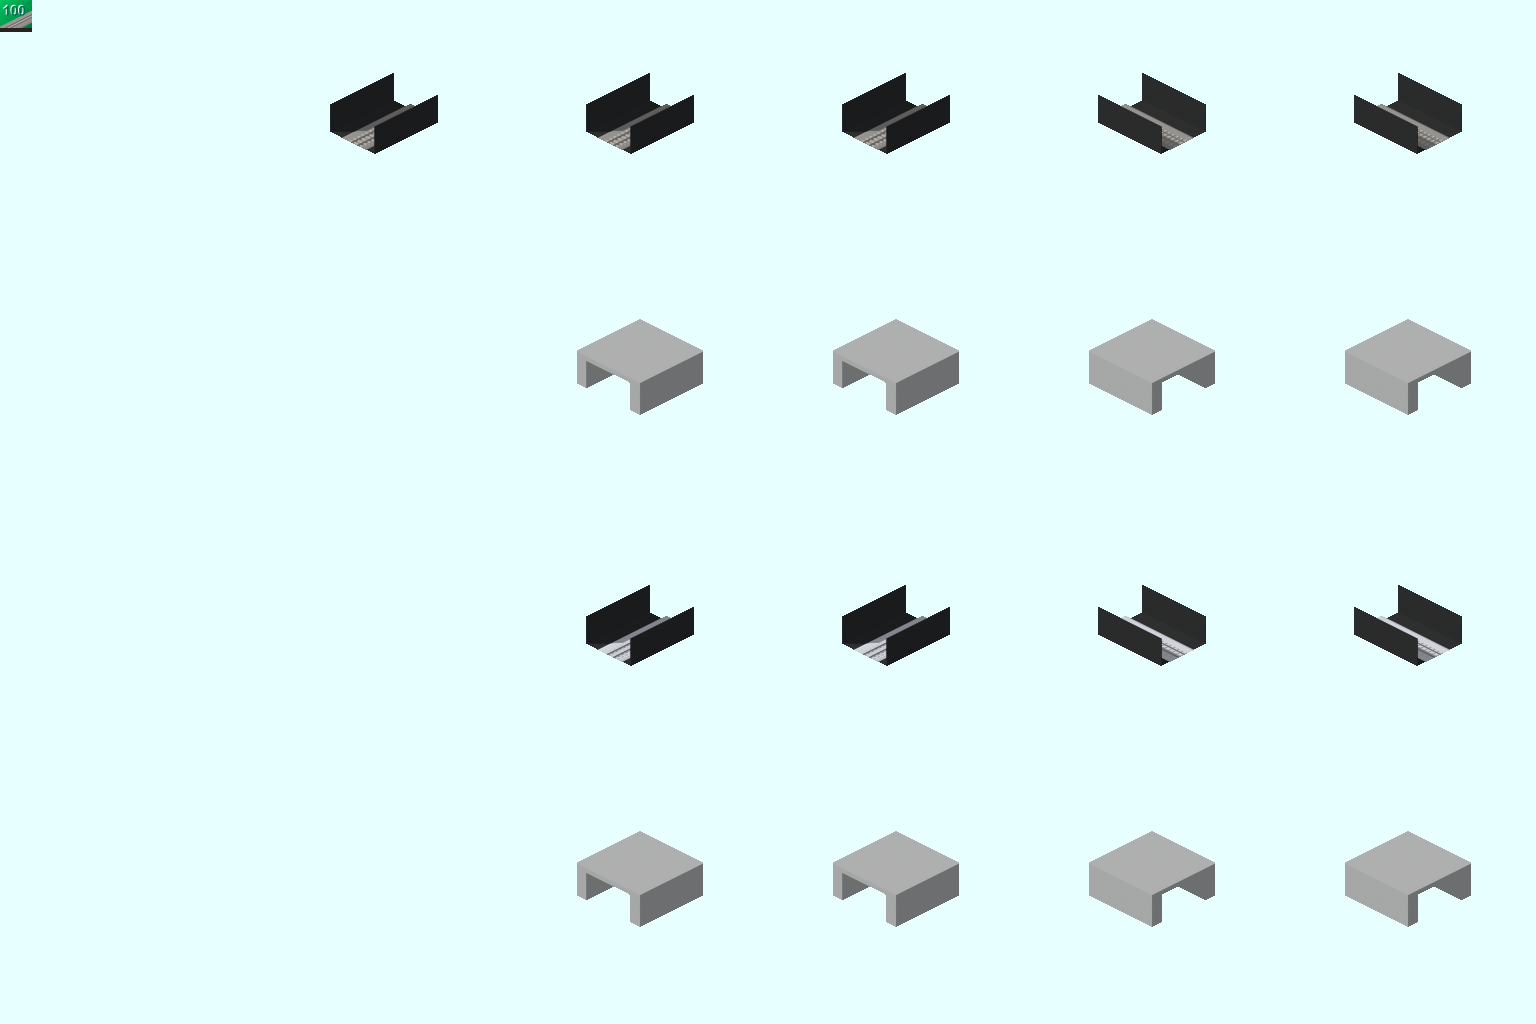
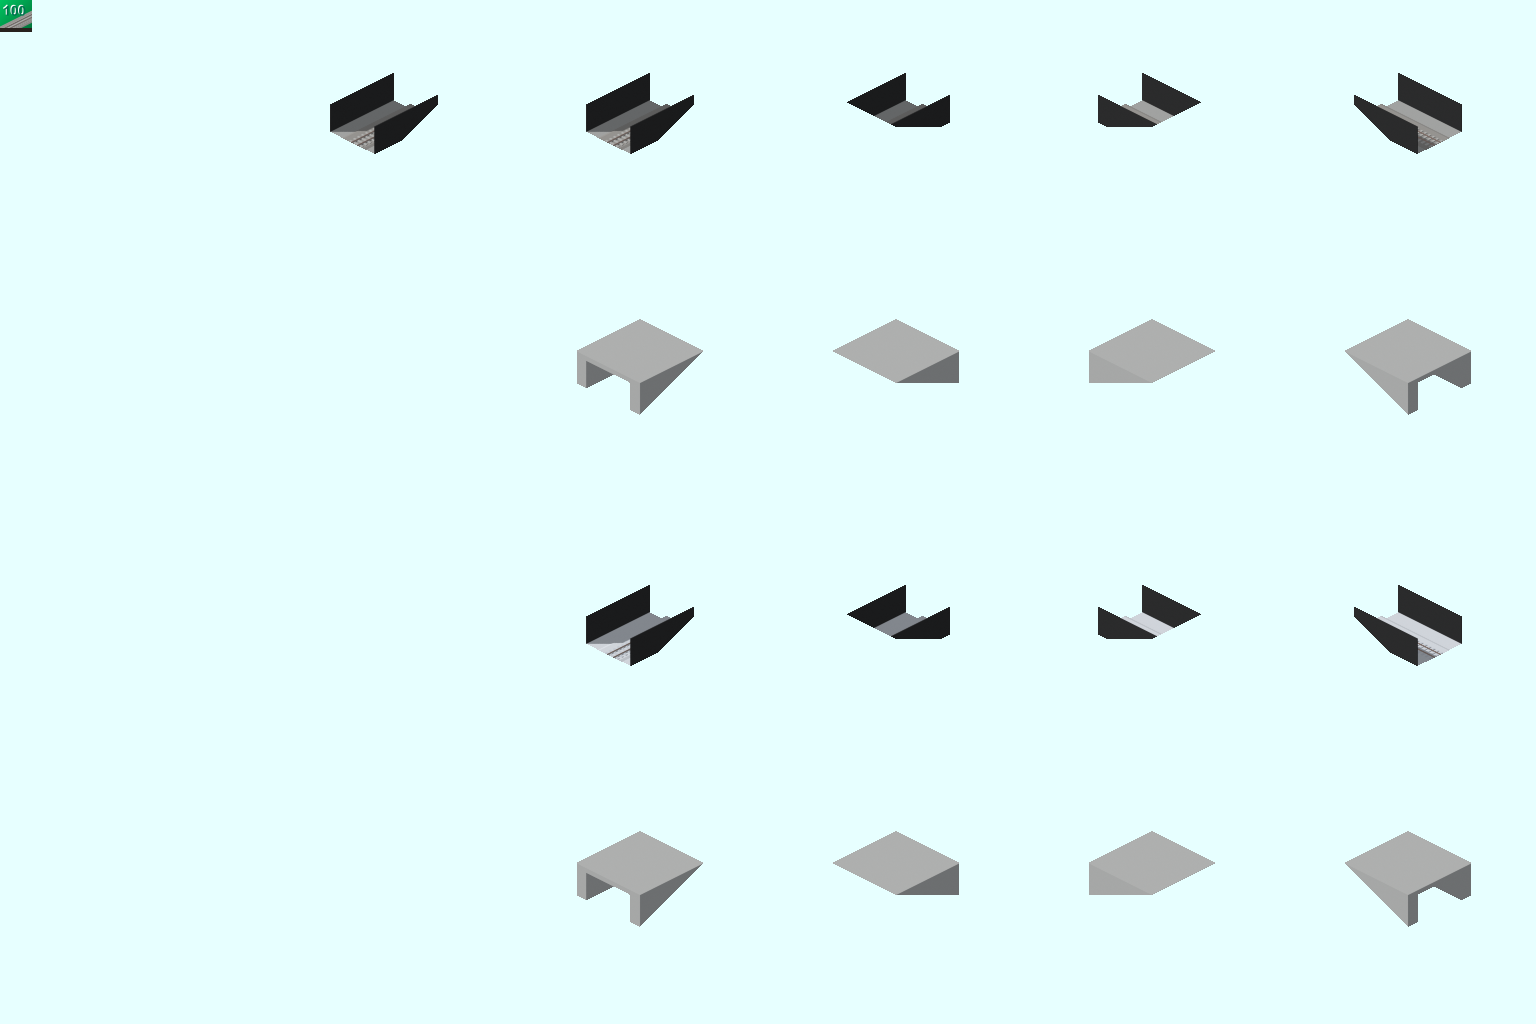
blender-poc: keep tunnel portals within the slope surface and give the bore a base floor
Portals whose mouth faced away from the camera drew the bore interior over
the hill in front, because the ownership mask reached down to flat ground.
Limit it to the slope surface (raised by the hood height) and use the base
material for the floor inside the mouth instead of black.

diff --git a/addons/blender-poc/blender/render.py b/addons/blender-poc/blender/render.py
@@ -1688,8 +1688,9 @@ def tunnel_sheet():
         for name, (col, path, d, slope) in dirs.items():
             rot = math.atan2(d.y, d.x)
             c = d * ((a0 + a1) / 2)
-            # 持ち分: 坂の面と、その下の平らな地面までの間。上へは躯体の高さだけ広げる
-            m = _ground_mask(slope, None, GROUND_CY, 0, solid=True)
+            # 持ち分: 坂の面だけ。上へは躯体の高さだけ広げる。坂の面より下（高い側の辺の下の面や、そこから覗く穴の中）は
+            # 手前の丘のタイルに隠れる所なので描かない（描くと、口が奥を向いた坑口で穴の中が丘の上にはみ出した）
+            m = _ground_mask(slope, None, GROUND_CY, 0)
             base = m.copy()
             for k in range(1, TUNNEL_RISE + 1):
                 m[:-k] |= base[k:]
@@ -1704,10 +1705,13 @@ def tunnel_sheet():
             # 奥の絵: 平らな線路（坂に切り込む）と、穴の内側の暗い床と壁
             clear_models()
             assemble(TRACK_PARTS, [path], prof["datums"], skin=skin)
-            # 穴の内側: 暗い床と左右の壁だけを置く（線路は床の上に見える。箱で埋めると線路まで隠れた）
+            # 穴の内側: 床（基盤と同じ材質）と暗い左右の壁だけを置く（線路は床の上に見える。箱で埋めると線路まで隠れた）
             m_dark = material("tunnel_dark", (0.015, 0.015, 0.015))
             n = Vector((d.y, -d.x))
-            inner = [box(c.x, c.y, 0.005, a1 - a0 - 0.1, 2 * TUNNEL_BORE[0] + 0.1, 0.01, rot=rot)]
+            floor = mesh_object("floor", *box(c.x, c.y, 0.005, a1 - a0 - 0.1, 2 * TUNNEL_BORE[0] + 0.1, 0.01, rot=rot),
+                                material(*(skin or {}).get("base", _M_BASE)))
+            clip_to_tile(floor, 0.0)
+            inner = []
             for s in (1, -1):
                 q = c + n * (s * (TUNNEL_BORE[0] + 0.05))
                 inner.append(box(q.x, q.y, TUNNEL_BORE[1] / 2, a1 - a0 - 0.1, 0.1, TUNNEL_BORE[1], rot=rot))

diff --git a/addons/blender-poc/ACCEPTANCE.md b/addons/blender-poc/ACCEPTANCE.md
@@ -74,8 +74,9 @@
 |---|---|---|---|
 | 7-1 | 東西・南北とも掘れ、坑口が 4 方向に出る（pak128 では 2 段の坂） | ○ | `tunnel.nut` |
 | 7-2 | 車両が坑口に入るとき、躯体の向こうへ隠れて見える | ○ | 手で編成を走らせて確認（2026-11-13） |
-| 7-4 | 口の中の暗い部分にも線路が見える | ○ | `tunnel.nut` を拡大（`docs/trial_tunnel_inside.png`） |
-| 7-3 | 坑口と、手前の線路の継ぎ目に段やすき間が無い | ？ | 拡大して見ていない |
+| 7-4 | 口の中の暗い部分にも線路が見え、床は基盤と同じ材質 | ○ | `tunnel.nut` を拡大（`docs/trial_tunnel_fix.png`） |
+| 7-5 | 口が奥を向いた坑口で、穴の中や躯体の高い側の面が丘の上にはみ出さない | ○ | `tunnel.nut`（`docs/trial_tunnel_fix.png`） |
+| 7-3 | 坑口と、手前の線路の継ぎ目に段やすき間が無い | ○ | `tunnel.nut` を拡大（`docs/trial_tunnel_fix.png`） |
 
 ## 8. 全方位の表示確認（ゲームの中で、全部の絵を周りとつながった形で見る）
 
